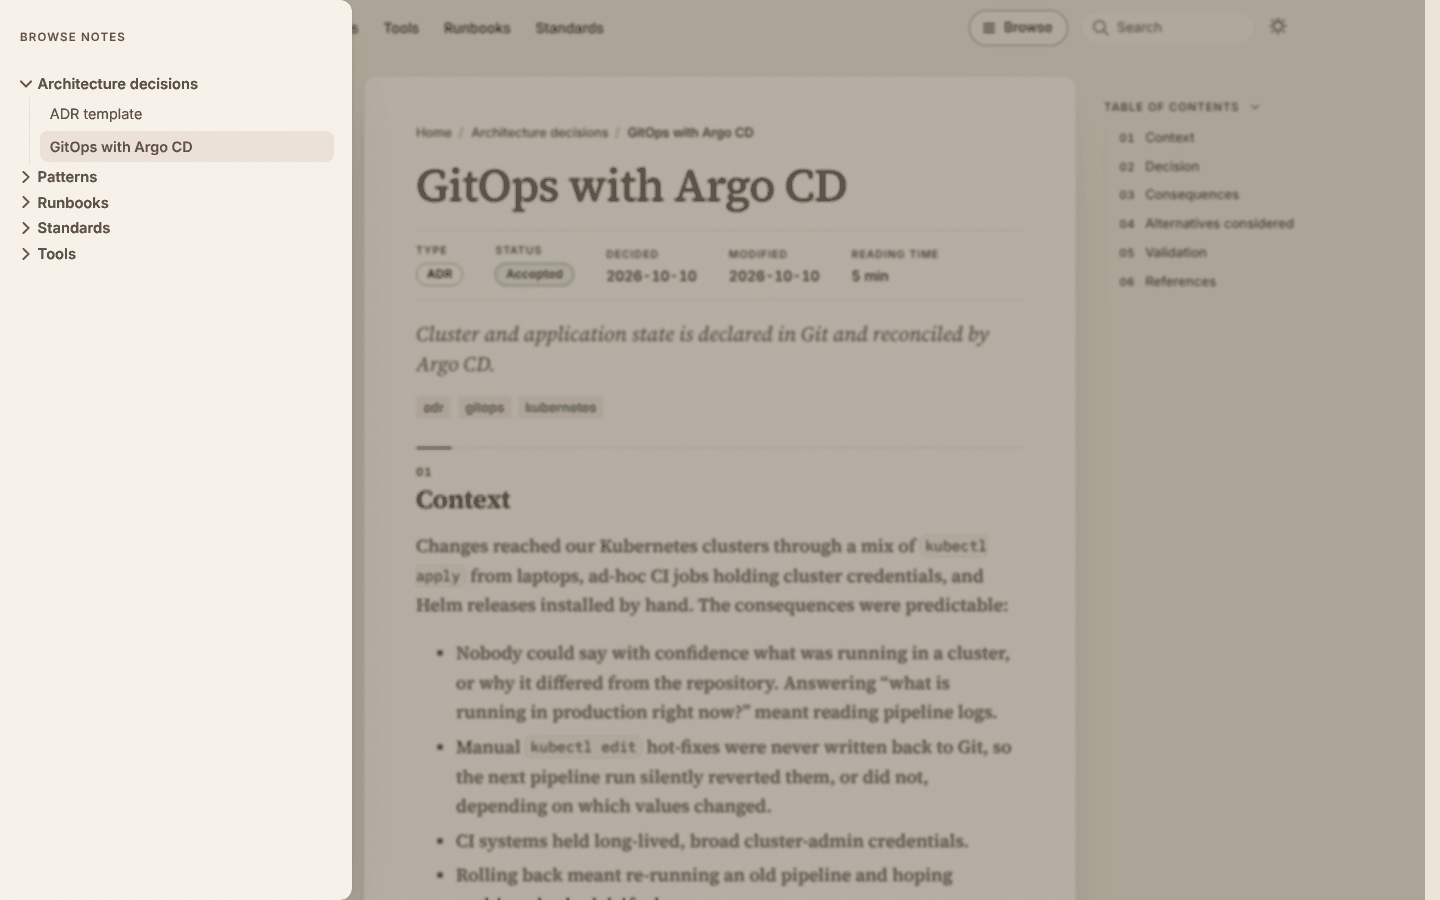
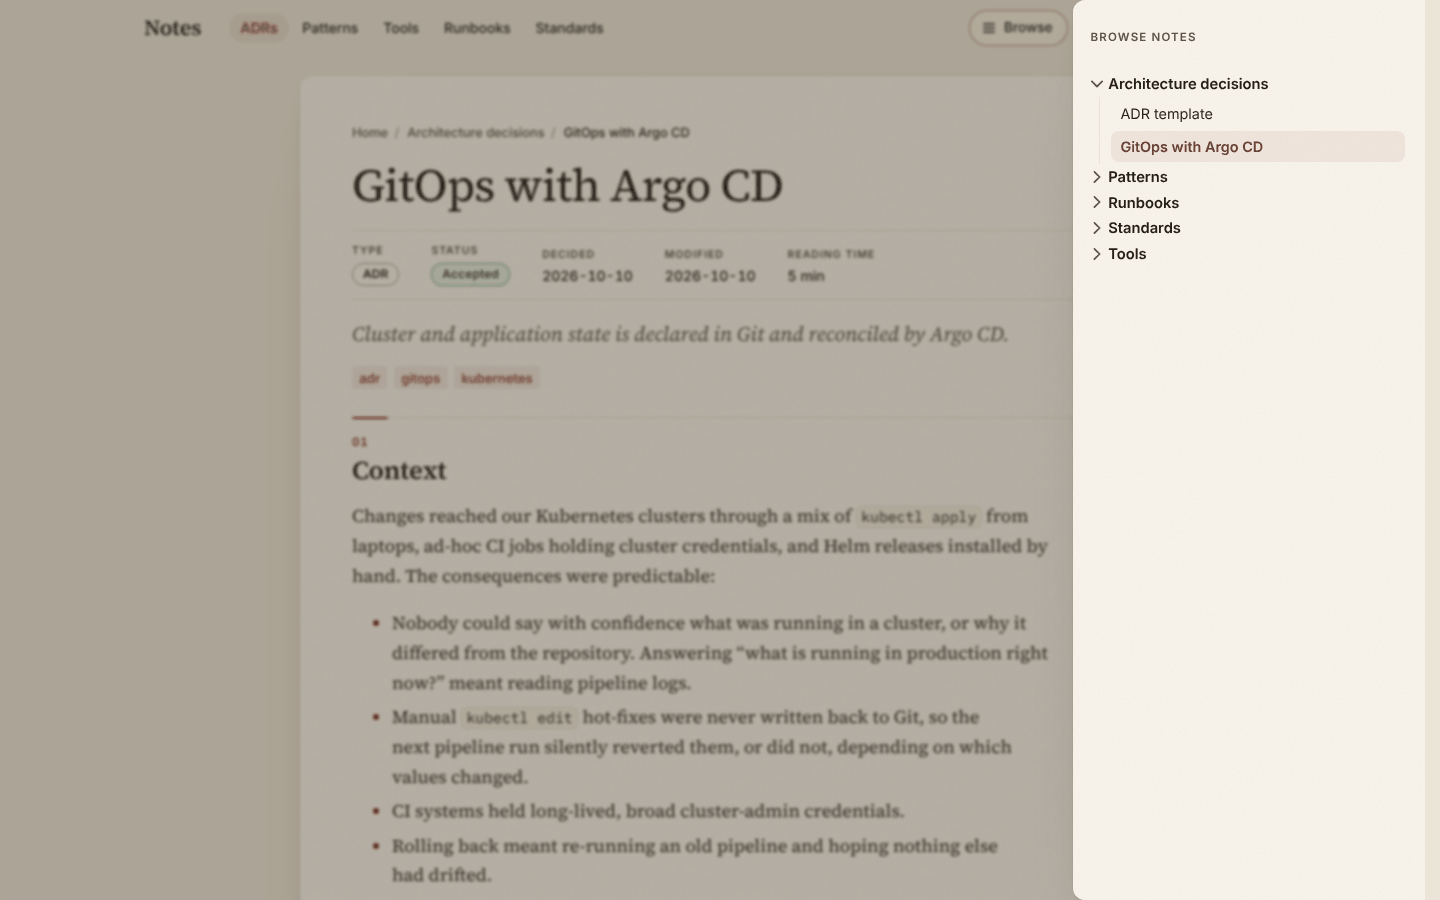
fix: drawer no longer flashes after a navigation; open it from the right

diff --git a/quartz/styles/custom.scss b/quartz/styles/custom.scss
@@ -786,12 +786,12 @@ body[data-slug="index"] .page > #quartz-body {
 // ---- Browse: the Explorer as a drawer ------------------------------------------------------
 // Quartz's explorer already has a drawer mode with a toggle (below 800px). Here it is the only
 // mode: the mobile toggle is the Browse button at every width, and the list is a panel from the
-// left edge. Quartz's script adds .collapsed to the explorer when it has loaded, removes
-// hide-until-loaded from the button, and toggles .collapsed on a click. Until then the list is
-// display: none, and it stays out of the page's way afterwards: the drawer is position: fixed and
-// hidden, so the script's scrollIntoView of the active entry has nothing to scroll (it used to
-// scroll the whole page to the open note's entry, which sat in the sidebar). The focus handling
-// and Escape are in local-plugins/top-bar/scripts/top-bar.inline.ts.
+// right edge, the side of the button. Quartz's script adds .collapsed to the explorer when it has
+// loaded, removes hide-until-loaded from the button, and toggles .collapsed on a click. Until then
+// the list is display: none, and it stays out of the page's way afterwards: the drawer is
+// position: fixed and hidden, so the script's scrollIntoView of the active entry has nothing to
+// scroll (it used to scroll the whole page to the open note's entry, which sat in the sidebar). The
+// focus handling and Escape are in local-plugins/top-bar/scripts/top-bar.inline.ts.
 
 .page > #quartz-body > .sidebar.left.sidebar .explorer {
   order: 2;
@@ -888,25 +888,26 @@ body[data-slug="index"] .page > #quartz-body {
     position: fixed;
     z-index: 2;
     top: 0;
-    left: 0;
+    right: 0;
     bottom: 0;
+    left: auto;
     box-sizing: border-box;
     width: min(22rem, 90vw);
     max-width: none;
     height: auto;
     max-height: none;
     margin: 0;
-    padding: 1.25rem 1.1rem 2rem 1.25rem;
+    padding: 1.25rem 1.25rem 2rem 1.1rem;
     overflow-x: hidden;
     overflow-y: auto;
     overscroll-behavior: contain;
     background-color: var(--light);
     background-image: var(--grain-image);
-    border-radius: 0 var(--radius) var(--radius) 0;
+    border-radius: var(--radius) 0 0 var(--radius);
     box-shadow: var(--sheet-shadow);
     visibility: hidden;
     opacity: 0;
-    transform: translateX(calc(-100% - 2rem));
+    transform: translateX(calc(100% + 2rem));
     // Closing: a little quicker than opening, and the panel stays visible until it has left.
     // No will-change: the transform is composited anyway while it runs, and an idle layer for a
     // panel that is mostly closed would be a cost for nothing.
@@ -937,6 +938,16 @@ body[data-slug="index"] .page > #quartz-body {
   }
   &.collapsed .explorer-content * {
     transition: visibility 0s linear var(--dur-drawer-out);
+  }
+
+  // After a navigation Quartz's explorer script shows the drawer as open for an instant before it
+  // closes it again (it removes hide-until-loaded, then adds .collapsed). The drawer does not
+  // animate until it is closed again (data-drawer-settling, set by the top-bar script), or it slid
+  // in and out on every link.
+  :root[data-drawer-settling] &::before,
+  :root[data-drawer-settling] & .explorer-content,
+  :root[data-drawer-settling] & .explorer-content * {
+    transition: none !important;
   }
 
   // Opening: a spring-like settle (fast start, long soft landing, no overshoot).

diff --git a/local-plugins/top-bar/scripts/top-bar.inline.ts b/local-plugins/top-bar/scripts/top-bar.inline.ts
@@ -241,7 +241,37 @@ let enterTimer = 0
 document.addEventListener("prenav", () => {
   navigating = true
   root.dataset.navigating = ""
+  root.dataset.drawerSettling = ""
 })
+
+// The morph puts the explorer back in its not-yet-loaded state, and Quartz's nav handler (async: it
+// loads the content index first) then shows the drawer as open for an instant before it collapses
+// it. The drawer's transitions stay off (data-drawer-settling) until it is closed again, so it does
+// not slide in and out; a timeout ends the wait if the explorer never closes.
+let settleObserver: MutationObserver | undefined
+let settleTimer = 0
+function endDrawerSettle() {
+  settleObserver?.disconnect()
+  settleObserver = undefined
+  window.clearTimeout(settleTimer)
+  requestAnimationFrame(() => delete root.dataset.drawerSettling)
+}
+function settleDrawer() {
+  settleObserver?.disconnect()
+  const parts = drawerParts()
+  const closed = () =>
+    !parts ||
+    (parts.explorer.classList.contains("collapsed") &&
+      !parts.toggle.classList.contains("hide-until-loaded"))
+  if (!parts || closed()) return endDrawerSettle()
+  settleObserver = new MutationObserver(() => {
+    if (closed()) endDrawerSettle()
+  })
+  settleObserver.observe(parts.explorer, { attributes: true, attributeFilter: ["class"] })
+  settleObserver.observe(parts.toggle, { attributes: true, attributeFilter: ["class"] })
+  window.clearTimeout(settleTimer)
+  settleTimer = window.setTimeout(endDrawerSettle, 2000)
+}
 
 function playEnter() {
   const center = document.querySelector<HTMLElement>(".center")
@@ -260,6 +290,7 @@ const onNav = () => {
   void settleHash()
   if (navigating) {
     navigating = false
+    settleDrawer()
     playEnter()
     requestAnimationFrame(() => delete root.dataset.navigating)
   }

diff --git a/CHANGELOG.md b/CHANGELOG.md
@@ -23,6 +23,7 @@ The format is based on [Keep a Changelog 1.1.0](https://keepachangelog.com/en/1.
 
 ### Fixed
 
+- The Browse drawer no longer slides in and out after a click on a link (a section, a note at the bottom of the page). After each navigation Quartz's explorer script shows the drawer as open for an instant before it closes it again; the top-bar script now keeps the drawer's transitions off (`data-drawer-settling`) from `prenav` until the drawer is closed again.
 - A code block inside a list item (the `curl` line in the runbook's numbered steps) sat tight against the text above and below and ran off the right edge: Quartz's `li > *` rule removed the block's margin. Blocks in list items now have the same frame and padding as top-level blocks and a vertical margin; a long line scrolls sideways inside the block (the `<pre>`, which the keyboard can focus) and has room at its end. Tables and callouts in list items get the same margin.
 - `scripts/smoke-test.sh` no longer follows redirects: any 3xx is a failure with the status and `Location`. A Cloudflare Access redirect is still detected from the response headers (a notice with `SMOKE_ALLOW_ACCESS=1`, a failure otherwise), but only on a 3xx response: a `Location` header on a 200 is not Access. Tested by `scripts/smoke-test.test.mjs`.
 - Note pages no longer open scrolled down. The Explorer's script calls `scrollIntoView` on the open note's entry at load, which scrolled the whole page (about 260px at 1440px wide) when the entry was visible in the sidebar. The list now lives in a fixed, hidden drawer, so there is nothing to scroll; pages open at the top unless the URL has a `#hash`.
@@ -42,6 +43,7 @@ The format is based on [Keep a Changelog 1.1.0](https://keepachangelog.com/en/1.
 
 ### Changed
 
+- The Browse drawer opens from the right edge, the side of its button in the top bar, instead of the left.
 - Wider page: the reading column (`--measure`) is 46rem instead of 38rem, and 52rem from 1500px; the home sheet is 68rem instead of 60rem. Long code lines and tables fit without scrolling more often; the table of contents and sidenotes still sit beside the sheet without overlap at 1280px and wider.
 - Smoother motion. One set of motion tokens in `quartz/styles/custom.scss` (`--dur-fast` 180ms, `--dur` 260ms, `--dur-slow` 380ms, `--dur-theme` 300ms, `--dur-drawer-in` 360ms, `--dur-drawer-out` 260ms; the curves `--ease-out`, `--ease-in-out`, `--ease-drawer`, `--ease-spring`) replaces the ad-hoc durations and `ease`; only `opacity`, `transform`, colours and `box-shadow` are transitioned.
 - Page navigation: the sheet's content fades in and rises 6px over 380ms instead of dimming while the next page loads, with no layout shift; the router's scroll to the top is instant. A link to a `#heading` fades without the rise. The top-bar script starts it on the router's `prenav` and `nav` events (no View Transitions API: the router does not expose the DOM swap).

diff --git a/README.md b/README.md
@@ -60,7 +60,7 @@ Source Serif 4 sets the reading text and headings (400, 600 and italic; old-styl
 
 The structure:
 
-- A slim sticky top bar holds the wordmark, links to the five sections (the current one highlighted), search and the theme toggle. Its background turns into a translucent, blurred band as the page scrolls and a thin line under it shows the reading progress, both CSS scroll-driven animations (older browsers just keep the band and no line). The **Browse** button opens the full tree (Quartz's Explorer) as a drawer at every width; Escape, a click outside or a link closes it. The bar is the page frame's left sidebar, and `local-plugins/top-bar` supplies the wordmark, the section links and a small script for the drawer's focus handling (a closed drawer is inert; opening the search closes it), the current heading in the table of contents, the `main` landmark and a second scroll to a `#hash` once the layout has settled. "Skip to content" targets the page title (`local-plugins/content-start`) and works without JavaScript.
+- A slim sticky top bar holds the wordmark, links to the five sections (the current one highlighted), search and the theme toggle. Its background turns into a translucent, blurred band as the page scrolls and a thin line under it shows the reading progress, both CSS scroll-driven animations (older browsers just keep the band and no line). The **Browse** button opens the full tree (Quartz's Explorer) as a drawer from the right edge at every width; Escape, a click outside or a link closes it. The bar is the page frame's left sidebar, and `local-plugins/top-bar` supplies the wordmark, the section links and a small script for the drawer's focus handling (a closed drawer is inert; opening the search closes it), the current heading in the table of contents, the `main` landmark and a second scroll to a `#hash` once the layout has settled. "Skip to content" targets the page title (`local-plugins/content-start`) and works without JavaScript.
 - The home page has a short intro, a card per section (description, note count, last update), then a table of every note grouped by section (number, title and file name, type, status, verified or modified date), which becomes a stack of cards on a phone. It is built from the notes' frontmatter by `local-plugins/note-index`, so a new note appears there without any edit to the home page.
 - Notes show a spec sheet under the title (`type`, `status`, `decided`, `verified`, modified date, reading time; `local-plugins/note-meta`), tags as light chips, numbered `##` sections (01, 02, ...) that the sticky table of contents beside the sheet repeats, and sidenotes in the margin of the sheet from 1280px up. A note ends with "Linked from" (`local-plugins/linked-from`) and its local graph.
 - Printing gives plain paper: no bar, drawer, graph or "Linked from" list, external links with their address, sidenotes as footnotes.
